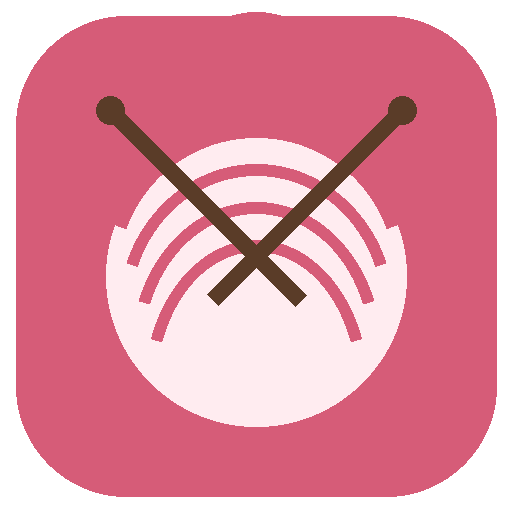
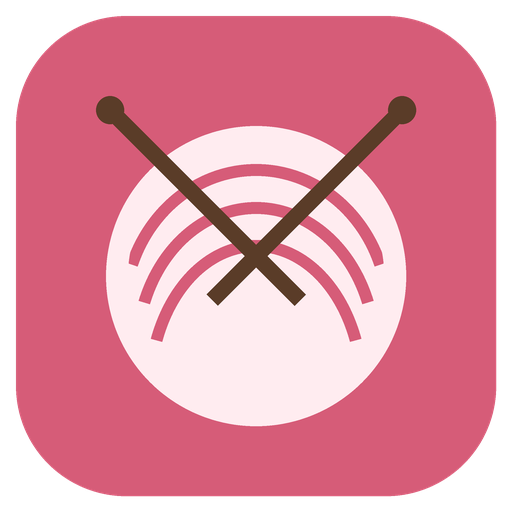
Address review feedback
- Add platforms (macOS) to the manifest
- Add Remove Row command, which never goes below 0
- Rename command identifiers to add-row, show-row-count and reset-row-counter
- Show the current row in the Add Row subtitle
- Clean up the icon's top edge

diff --git a/src/storage.ts b/src/storage.ts
@@ -1,4 +1,9 @@
-import { LocalStorage } from "@raycast/api";
+import {
+  LaunchType,
+  LocalStorage,
+  launchCommand,
+  updateCommandMetadata,
+} from "@raycast/api";
 
 const KEY = "rows";
 
@@ -9,4 +14,22 @@ export async function getRows(): Promise<number> {
 
 export async function setRows(rows: number): Promise<void> {
   await LocalStorage.setItem(KEY, rows);
+}
+
+/** Shows the current row in the calling command's subtitle, or restores the default at 0. */
+export async function updateRowSubtitle(rows: number): Promise<void> {
+  await updateCommandMetadata({ subtitle: rows > 0 ? `Row ${rows}` : null });
+}
+
+/** Asks Add Row to refresh its subtitle after another command changed the count. */
+export async function refreshAddRowSubtitle(): Promise<void> {
+  try {
+    await launchCommand({
+      name: "add-row",
+      type: LaunchType.Background,
+      context: { refreshOnly: true },
+    });
+  } catch {
+    // Add Row is disabled, so there is no subtitle to refresh.
+  }
 }

diff --git a/src/add-row.ts b/src/add-row.ts
@@ -1,0 +1,18 @@
+import { LaunchProps, showHUD } from "@raycast/api";
+import { getRows, setRows, updateRowSubtitle } from "./storage";
+
+type Context = { refreshOnly?: boolean };
+
+export default async function Command(
+  props: LaunchProps<{ launchContext: Context }>,
+) {
+  if (props.launchContext?.refreshOnly) {
+    await updateRowSubtitle(await getRows());
+    return;
+  }
+
+  const rows = (await getRows()) + 1;
+  await setRows(rows);
+  await updateRowSubtitle(rows);
+  await showHUD(`🧶 Row ${rows}`);
+}

diff --git a/src/remove-row.ts b/src/remove-row.ts
@@ -1,0 +1,15 @@
+import { showHUD } from "@raycast/api";
+import { getRows, refreshAddRowSubtitle, setRows } from "./storage";
+
+export default async function Command() {
+  const current = await getRows();
+  if (current === 0) {
+    await showHUD("🧶 Already at row 0");
+    return;
+  }
+
+  const rows = current - 1;
+  await setRows(rows);
+  await refreshAddRowSubtitle();
+  await showHUD(`🧶 Back to row ${rows}`);
+}

diff --git a/src/reset-row-counter.ts b/src/reset-row-counter.ts
@@ -1,7 +1,8 @@
 import { showHUD } from "@raycast/api";
-import { setRows } from "./storage";
+import { refreshAddRowSubtitle, setRows } from "./storage";
 
 export default async function Command() {
   await setRows(0);
+  await refreshAddRowSubtitle();
   await showHUD("🧶 Counter reset to 0");
 }

diff --git a/README.md b/README.md
@@ -3,12 +3,13 @@
 Count your knitting rows from Raycast. For people who, like me, knit a lot while on their laptops.
 
 - **Add Row** - adds a row and shows the current row
+- **Remove Row** - removes a row if you added one by accident (never goes below 0)
 - **Show Row Count** - shows how many rows you've done
 - **Reset Row Counter** - resets the count to 0
 
-The count is stored locally, so it survives Raycast and Mac restarts.
+The count is stored locally, so it survives Raycast and Mac restarts. Add Row also shows the current row as its subtitle in the Raycast search.
 
 ## Tips
 
 - Assign a global hotkey to **Add Row** (Raycast Settings > Extensions > Row Counter) to add rows without opening Raycast.
-- Give each command a short alias (for example `counter`, `counter see` and `counter reset`) to run them quickly from the search bar.
+- Give each command a short alias (for example `counter`, `counter remove`, `counter see` and `counter reset`) to run them quickly from the search bar.

diff --git a/CHANGELOG.md b/CHANGELOG.md
@@ -2,4 +2,5 @@
 
 ## [Initial Version] - {PR_MERGE_DATE}
 
-- Add Row, Show Row Count and Reset Row Counter commands
+- Add Row, Remove Row, Show Row Count and Reset Row Counter commands
+- Current row shown in the Add Row subtitle
